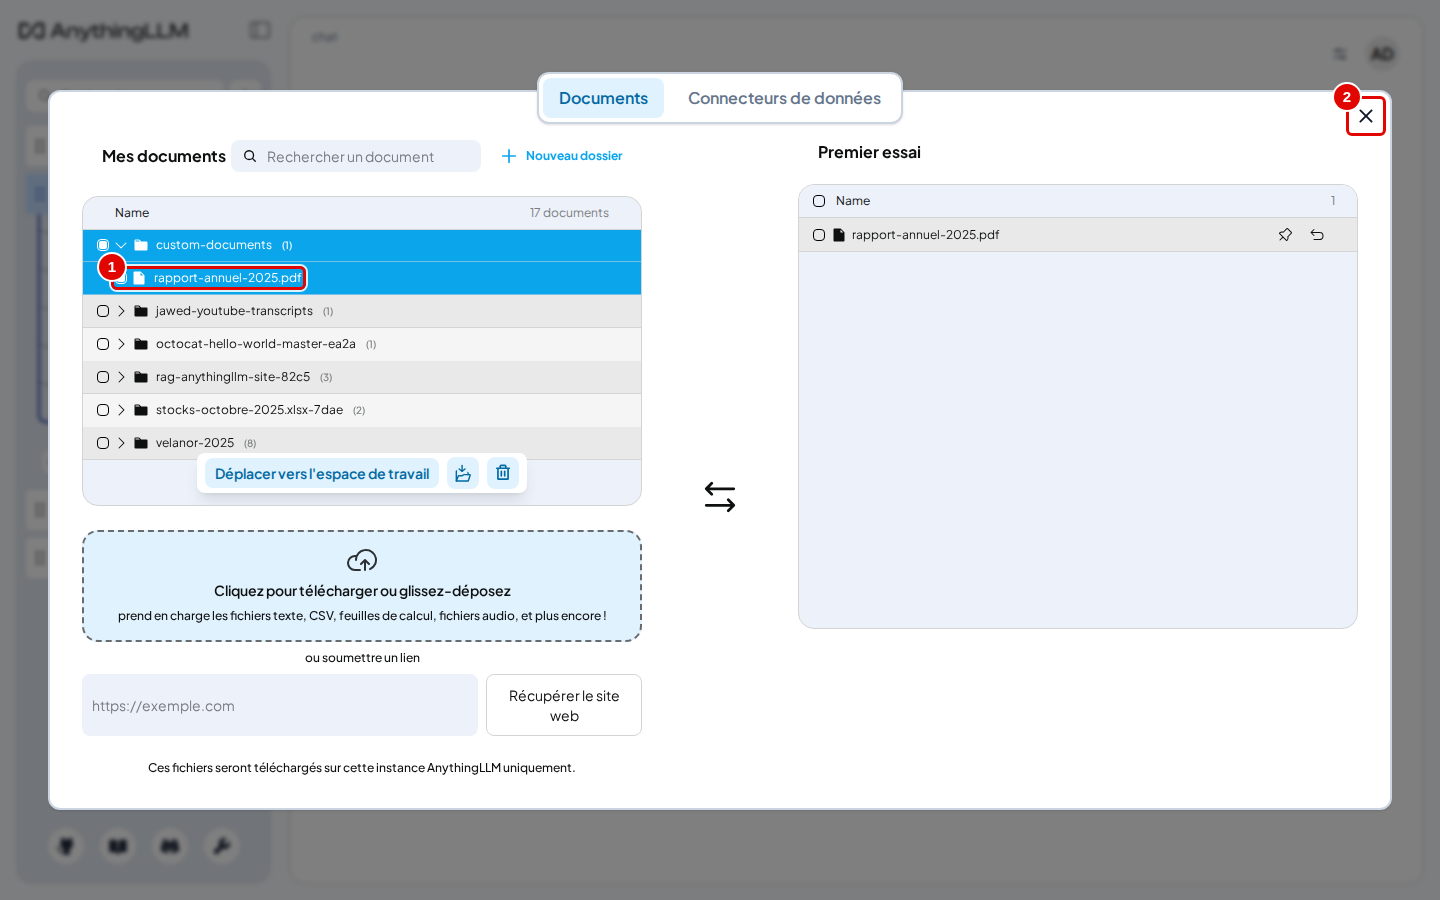
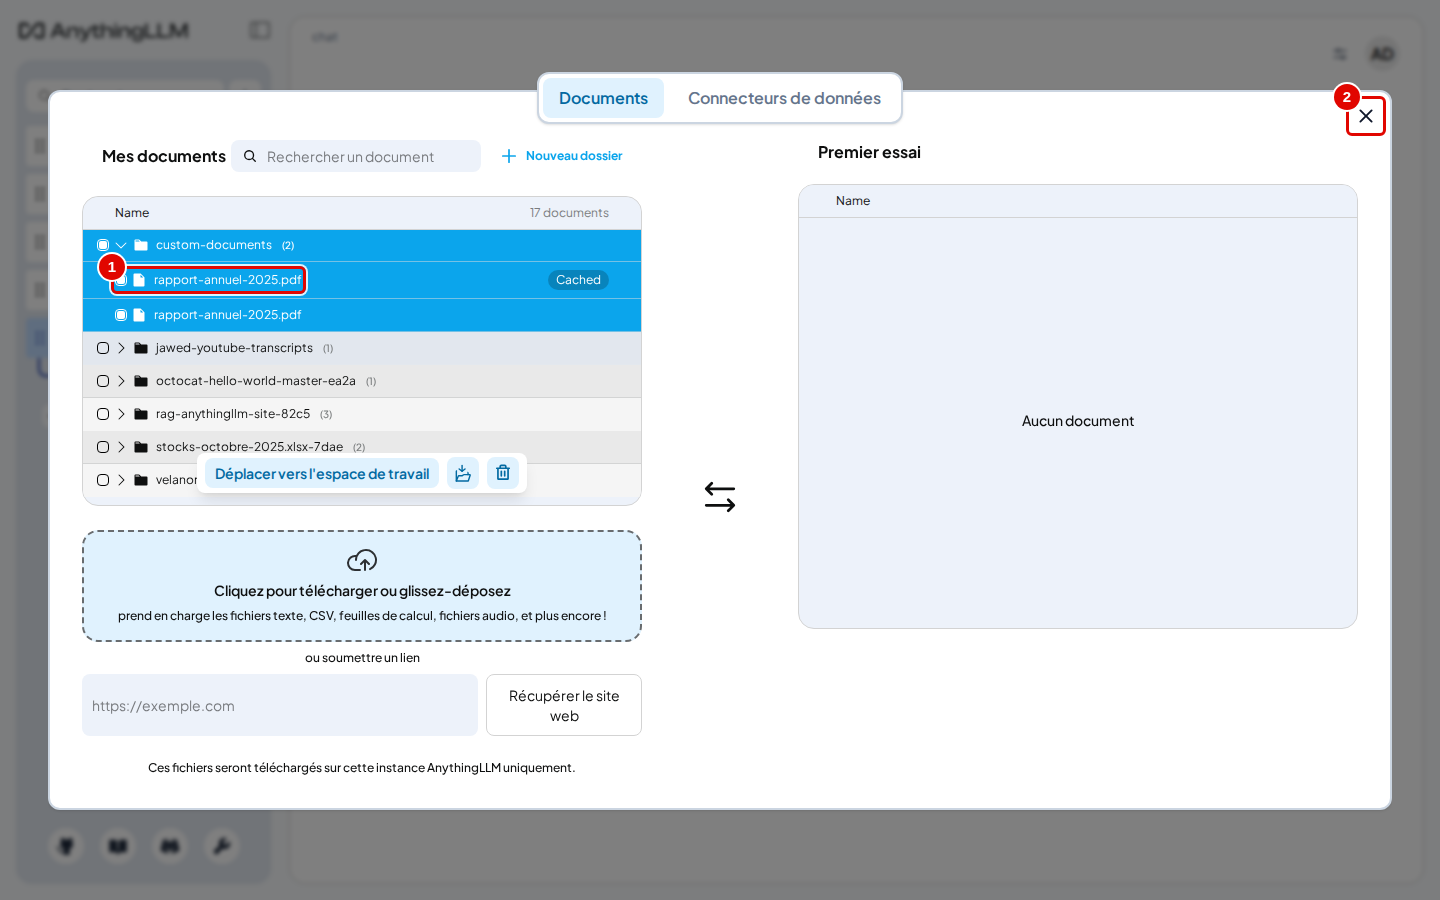
AnythingLLM : corrections de la quatrième relecture novice (captures 04 et 09 refaites)

diff --git a/outils/anythingllm/captures/reprises.py b/outils/anythingllm/captures/reprises.py
@@ -160,9 +160,32 @@ def widget_fichier(s):
         s.cap_souple("16-widget-reponse", [(bulle, "réponse dans la page")])
 
 
+def envoi_vierge(s):
+    """Chapitre 04, capture 05, dans un espace temporaire vierge nommé comme celui du chapitre (supprimé ensuite)."""
+    p = s.page; s.chapitre = "04-premiere-question"
+    s.gestionnaire("premier-essai-86397990")
+    p.locator("input[type=file]").first.set_input_files("/depot/corpus/documents/rapport-annuel-2025.pdf")
+    p.wait_for_timeout(5000); s.sans_toasts()
+    item = p.locator('[data-tooltip-id="directory-item"]').filter(has_text="rapport-annuel-2025").first
+    if not item.is_visible():
+        p.get_by_text("custom-documents").first.click(); p.wait_for_timeout(1000)
+    p.evaluate("() => { const b = document.elementFromPoint(1366, 126).closest('button'); b.setAttribute('data-manuel', 'croix'); }")
+    s.cap_souple("05-document-televerse", [(item, "rapport-annuel-2025.pdf"), (p.locator("[data-manuel=croix]"), "croix (fermer)")])
+
+
+def github_form(s):
+    p = s.page; s.chapitre = "09-sources-externes"
+    s.gestionnaire("sources-externes")
+    p.get_by_text("Connecteurs de données").first.click(); p.wait_for_timeout(1000)
+    p.get_by_text("Dépôt GitHub", exact=False).first.click(); p.wait_for_timeout(800)
+    repo = p.locator("[name=repo]"); repo.fill("https://github.com/octocat/Hello-World")
+    sub = repo.locator("xpath=ancestor::form[1]").locator("button[type=submit]")
+    s.cap_souple("03-github", [(repo, "URL du dépôt GitHub"), (sub, "Submit")])
+
+
 if __name__ == "__main__":
     s = Scenario("reprises")
     try:
-        etapes([agents, admin, experimental, widget, citation, ocr, envoi, croix_seule, citation2, ocr2, widget_fichier], s)
+        etapes([envoi_vierge, github_form, agents, admin, experimental, widget, citation, ocr, envoi, croix_seule, citation2, ocr2, widget_fichier], s)
     finally:
         s.fermer()

diff --git a/docs/anythingllm/manuel/13-comptes-equipe-et-widget.md b/docs/anythingllm/manuel/13-comptes-equipe-et-widget.md
@@ -4,7 +4,7 @@
 > **Point de départ** : Paramètres de l'instance › « Sécurité », connecté avec le mot de passe de l'instance (chapitre 03).
 > **Durée** : environ 20 minutes. **Avant** : chapitres 03 à 07 ; faire le chapitre 11 avant, car les tâches planifiées disparaissent en multi-utilisateur.
 
-**Attention** : le passage en multi-utilisateur ne peut pas être annulé depuis l'interface. Avant l'étape 1, faire une sauvegarde (terminal Ubuntu, dossier du dépôt : `outils/anythingllm/sauvegarder.sh`) : la restaurer est le seul moyen de revenir en arrière. Le mot de passe de l'instance est remplacé par des comptes ; les pages « Tâches planifiées », « Canaux » (Telegram) et « Sécurité » disparaissent du menu.
+**Attention** : le passage en multi-utilisateur ne peut pas être annulé depuis l'interface. Avant l'étape 1, faire une sauvegarde (terminal Ubuntu, dossier du dépôt : `outils/anythingllm/sauvegarder.sh`) : la restaurer est le seul moyen de revenir en arrière (`outils/anythingllm/restaurer.sh donnees/sauvegardes/<archive>.tar.gz`, après arrêt automatique de l'application ; l'archive est nommée d'après la date et l'heure). Le mot de passe de l'instance est remplacé par des comptes ; les pages « Tâches planifiées », « Canaux » (Telegram) et « Sécurité » disparaissent du menu.
 
 ## Ce qu'il faut savoir
 
@@ -188,7 +188,7 @@ Cliquer sur « Download » (pastille 1), puis sur « Close ».
 
 **Étape 12. Créer le widget**
 *Où* : connecté avec `admin-velanor`, Paramètres de l'instance › Outils › « Widgets de chat intégrés » › « Créer un widget intégré ».
-En haut de la fenêtre, choisir l'espace « Démo Vélanor » ; plus bas, cocher le mode « Query » (pastille 1), renseigner le domaine du site dans « Restrict requests from domains » (pastille 2 ; par exemple `intranet.velanor.fr` ; laissé vide dans l'essai, pour la page de test de l'étape 15), une limite par jour (pastille 3, ici 200), puis « Create embed » (pastille 4).
+En haut de la fenêtre, choisir l'espace « Démo Vélanor » ; plus bas, cocher le mode « Query » (pastille 1), laisser vide « Restrict requests from domains » (pastille 2) pour l'essai de l'étape 15, qui ouvre une page depuis un fichier et non depuis un site ; pour un vrai site, y mettre son nom de domaine (par exemple `intranet.velanor.fr`), une limite par jour (pastille 3, ici 200), puis « Create embed » (pastille 4).
 
 ![Nouveau widget](../img/13-comptes-et-widget/12-nouveau-widget.png)
 *Écran : fenêtre de création d'un widget.*
@@ -253,7 +253,7 @@ Cliquer sur la bulle en bas à droite (pastille 1), poser une question.
 
 - Pour revenir à une seule personne, il n'y a pas de bouton : il faudrait restaurer une sauvegarde faite avant le passage (annexe A4).
 - Un compte « Manager » peut modifier les espaces et leurs documents mais pas les modèles.
-- Un widget dont les domaines autorisés sont vides répond à n'importe quel site qui connaît son identifiant : renseigner le domaine du site.
+- Un widget dont les domaines autorisés sont vides répond à n'importe quel site qui connaît son identifiant : une fois l'essai fait, renseigner le domaine du vrai site (bouton d'édition du widget).
 
 ## En cas de problème
 

diff --git a/docs/anythingllm/manuel/04-premiere-question.md b/docs/anythingllm/manuel/04-premiere-question.md
@@ -72,17 +72,17 @@ La colonne de droite, au nom de l'espace (« Premier essai »), liste les docume
 
 **Étape 5. Envoyer le fichier**
 *Où* : fenêtre des documents, zone d'envoi.
-Cliquer dans la zone d'envoi : la fenêtre de choix de fichier de Windows s'ouvre. Le dépôt est dans WSL : taper `\\wsl$` dans la barre d'adresse de cette fenêtre, ouvrir la distribution (son nom, par exemple `Ubuntu` ou `Ubuntu-24.04`, est donné par `wsl -l` dans PowerShell), puis `home\<utilisateur>\AnythingLLM-Test-Bench\corpus\documents` (le chemin du dépôt s'affiche avec `pwd` dans le terminal Ubuntu), et choisir `rapport-annuel-2025.pdf` (ou le glisser depuis l'Explorateur dans la zone).
+Cliquer dans la zone d'envoi : la fenêtre de choix de fichier de Windows s'ouvre. Le dépôt est dans WSL : taper `\\wsl$` dans la barre d'adresse de cette fenêtre, ouvrir la distribution (son nom, par exemple `Ubuntu` ou `Ubuntu-24.04`, est donné par `wsl -l` dans PowerShell), puis le dossier du dépôt et `corpus\documents`. Le chemin du dépôt s'affiche avec `pwd` dans le terminal Ubuntu, par exemple `/home/camille/AnythingLLM-Test-Bench` : il devient `\\wsl$\Ubuntu\home\camille\AnythingLLM-Test-Bench` en remplaçant les `/` par des `\`. et choisir `rapport-annuel-2025.pdf` (ou le glisser depuis l'Explorateur dans la zone).
 
 ![Fichier envoyé](../img/04-premiere-question/05-document-televerse.png)
-*Écran : fenêtre des documents, fichier envoyé dans « custom-documents ».*
+*Écran : fenêtre des documents, fichier envoyé dans « custom-documents » (capture prise plus tard, sur une instance qui contient déjà les dossiers des chapitres suivants et un exemplaire du rapport marqué « Cached » ; la colonne de l'espace est vide, comme sur une installation neuve).*
 
 | N° | Élément | Rôle |
 |---|---|---|
 | 1 | `rapport-annuel-2025.pdf` | le fichier envoyé, rangé dans le dossier `custom-documents` |
 | 2 | croix | ferme la fenêtre |
 
-*Résultat* : le fichier apparaît dans « Mes documents », avec une coche verte dans la zone d'envoi. Il n'est **pas encore** dans l'espace. Fermer la fenêtre avec la croix (pastille 2), puis la rouvrir comme à l'étape 3 : dans la version 1.19.0, un fichier qu'on vient d'envoyer ne peut pas être placé dans l'espace tant que la fenêtre n'a pas été rouverte.
+*Résultat* : le fichier apparaît dans « Mes documents », dans le dossier `custom-documents`. La colonne de droite indique toujours « Aucun document » : il n'est **pas encore** dans l'espace. Fermer la fenêtre avec la croix (pastille 2), puis la rouvrir comme à l'étape 3 : dans la version 1.19.0, un fichier qu'on vient d'envoyer ne peut pas être placé dans l'espace tant que la fenêtre n'a pas été rouverte.
 
 **Étape 6. Placer le fichier dans l'espace**
 *Où* : fenêtre des documents rouverte, « Mes documents » › dossier `custom-documents`.

diff --git a/docs/anythingllm/manuel/11-memoires-taches-et-routage.md b/docs/anythingllm/manuel/11-memoires-taches-et-routage.md
@@ -70,7 +70,7 @@ Cliquer sur « Nouvelle offre d'emploi » (pastille 1) : c'est la traduction app
 
 **Étape 5. Décrire la tâche**
 *Où* : formulaire de nouvelle tâche.
-Remplir le nom `Point stocks du lundi` (pastille 1), le champ « Demande » (pastille 2) avec `Résume l'état des stocks de pièces à partir des documents de l'espace Démo Vélanor.`, choisir la fréquence (pastille 3 : « chaque minute », « par heure », « quotidien », « hebdomadaire », « mensuel » ; ici « hebdomadaire » conviendrait au nom, l'essai a gardé « quotidien »), puis cliquer sur « Créer un emploi » (pastille 4).
+Remplir le nom `Point stocks du lundi` (pastille 1), le champ « Demande » (pastille 2) avec une consigne, par exemple `Rédige un rappel des points à vérifier pour l'inventaire des pièces détachées.`, choisir la fréquence (pastille 3 : « chaque minute », « par heure », « quotidien », « hebdomadaire », « mensuel » ; ici « hebdomadaire » conviendrait au nom, l'essai a gardé « quotidien »), puis cliquer sur « Créer un emploi » (pastille 4).
 
 ![Nouvelle tâche](../img/11-memoires-taches-routage/05-nouvelle-tache.png)
 *Écran : formulaire de nouvelle tâche planifiée.*
@@ -82,7 +82,7 @@ Remplir le nom `Point stocks du lundi` (pastille 1), le champ « Demande » (pas
 | 3 | calendrier | fréquence d'exécution |
 | 4 | « Créer un emploi » | enregistre la tâche |
 
-*Résultat* : le message « Emploi créé » s'affiche. La tâche ne se rattache à aucun espace : la consigne est envoyée au modèle avec les compétences cochées dans « Outils (facultatifs) », sous la consigne. Pour qu'elle lise des documents, y cocher une compétence de recherche dans les documents si elle est proposée ; sans outil, le modèle répond sans lire les documents. Dans les essais, aucun outil n'a été coché et l'exécution n'a pas été observée : la tâche d'exemple montre le formulaire, pas un résultat.
+*Résultat* : le message « Emploi créé » s'affiche. La tâche ne se rattache à aucun espace : la consigne est envoyée au modèle avec les compétences cochées dans « Outils (facultatifs) », sous la consigne. Sans outil, le modèle répond avec ses seules connaissances, sans lire les documents : c'est le cas de l'exemple, qui montre le formulaire ; l'exécution n'a pas été observée pendant les essais.
 
 **Étape 6. Suivre la tâche**
 *Où* : « Tâches planifiées ».

diff --git a/docs/anythingllm/manuel/03-premiers-pas.md b/docs/anythingllm/manuel/03-premiers-pas.md
@@ -47,7 +47,7 @@ Taper `Generic` dans le champ de recherche (pastille 1), puis cliquer sur « Gen
 Remplir dans l'ordre :
 
 - « Base URL » (pastille 1) : `http://llm-central:8080/v1` ;
-- « API Key » (pastille 2) : la clé du service central (masquée sur la capture) ;
+- « API Key » (pastille 2) : la clé du service central (masquée sur la capture) ; pour l'afficher, dans le terminal Ubuntu, dossier du dépôt : `grep LLM_CENTRAL_KEY .env` (la partie après `=`) ;
 - « Selected Model » (pastille 3) : dès que l'adresse et la clé sont bonnes, le champ devient une liste des modèles du service ; choisir `chat` ;
 - « Model context window » (pastille 4) : `16384`, la taille de contexte du service ;
 - « Max Tokens » (pastille 5) : `8192`, longueur maximale d'une réponse, réflexion comprise.
@@ -137,7 +137,7 @@ Cliquer sur « Ignorer l'enquête » (pastille 1), sans rien remplir.
 |---|---|---|
 | 1 | liste des espaces de travail | chaque espace a ses documents, ses conversations (fils) et ses réglages ; « New Thread » ouvre une nouvelle conversation |
 | 2 | « + » | crée un espace de travail (chapitre 04) |
-| 3 | flèche vers le haut | ouvre le fenêtre des documents de l'espace (chapitre 05) |
+| 3 | flèche vers le haut | ouvre la fenêtre des documents de l'espace (chapitre 05) |
 | 4 | « Envoyer un message » | zone où taper une question |
 | 5 | « Outils » | commandes abrégées (`/reset`…) et compétences de l'agent (chapitres 06 et 10) |
 | 6 | clé | ouvre les paramètres de l'instance |
@@ -165,7 +165,7 @@ Taper le mot de passe de l'instance (pastille 1), puis cliquer sur « Connexion 
 ## Régler la langue
 
 **Étape 10. Choisir le français**
-*Où* : clé en bas de la barre latérale › « Paramètres de l'instance » › Apparence › « Interface ».
+*Où* : clé en bas de la barre latérale › « Paramètres de l'instance » › Apparence › « Interface » (avec un navigateur en anglais : « Instance Settings » › « Appearance » › « Interface », champ « Display Language »). L'interface suit la langue du navigateur : avec un navigateur en anglais, les étapes 1 à 9 s'affichent en anglais (« Get started » pour « Commencer »).
 Dans « Langue d'affichage » (pastille 2), choisir « French ».
 
 ![Réglage de la langue](../img/03-premiers-pas/10-langue.png)

diff --git a/docs/anythingllm/manuel/15-en-cas-de-probleme.md b/docs/anythingllm/manuel/15-en-cas-de-probleme.md
@@ -111,7 +111,7 @@ La première dit si AnythingLLM tourne, la deuxième montre ses derniers message
 | 1 | titre du document ; les erreurs sont dans le texte en dessous | texte lu par OCR : « (I'Acheteur) » pour « (l'Acheteur) », « Bréme » pour « Brême », « aprés » pour « après », « ler mars » pour « 1er mars » |
 
 *Cause* : la lecture optique (OCR) est réglée en anglais par défaut ; les accents et certaines lettres françaises sont mal reconnus. Les chiffres du contrat ont été bien lus dans les essais.
-*Que faire* : ce réglage n'existe pas dans l'interface. Depuis le dossier du dépôt, écrire la ligne `TARGET_OCR_LANG=fra,eng` dans le fichier `donnees/anythingllm/options.env`, puis relancer `outils/anythingllm/demarrer.sh` (le conteneur est recréé avec ce réglage). Supprimer ensuite le document scanné et l'envoyer de nouveau : la lecture donne alors « Brême » et « l'Acheteur ». Écrire la même ligne dans `donnees/anythingllm/storage/.env` ne suffit pas : l'outil de lecture ne la voit pas.
+*Que faire* : ce réglage n'existe pas dans l'interface. Depuis le dossier du dépôt, créer le fichier `donnees/anythingllm/options.env` (il n'existe pas par défaut) avec la commande `echo 'TARGET_OCR_LANG=fra,eng' > donnees/anythingllm/options.env`, puis lancer `outils/anythingllm/demarrer.sh` sans arrêter l'application avant : le conteneur est recréé avec ce réglage. Supprimer ensuite le document scanné et l'envoyer de nouveau : la lecture donne alors « Brême » et « l'Acheteur ». Écrire la même ligne dans `donnees/anythingllm/storage/.env` ne suffit pas : l'outil de lecture ne la voit pas.
 
 ## Message trop long
 

diff --git a/docs/anythingllm/manuel/08-choisir-les-modeles-et-la-lecture-des-documents.md b/docs/anythingllm/manuel/08-choisir-les-modeles-et-la-lecture-des-documents.md
@@ -53,7 +53,7 @@ Sur ces pages, le bouton d'enregistrement (« Enregistrer les modifications » o
 
 | N° | Élément | Rôle |
 |---|---|---|
-| 1 | « Taille des segments de texte » | longueur maximale d'un passage, en caractères ; ne peut pas dépasser la limite déclarée pour l'embedding (1 000 ici, rappelée sous le champ) |
+| 1 | « Taille des segments de texte » | longueur maximale d'un passage, en caractères ; ne peut pas dépasser la limite déclarée pour l'embedding (1 000 ici, réglée au chapitre 03, étape 14) |
 | 2 | « Chevauchement des segments de texte » | nombre de caractères repris d'un passage au suivant (20 par défaut) |
 
 *Résultat* : un changement ne vaut que pour les documents intégrés ensuite. Pour des passages plus longs, relever d'abord « Max embedding chunk length » dans « Préférences d'intégration » (chapitre 03, étape 14).

diff --git a/docs/anythingllm/manuel/06-poser-des-questions-et-lire-les-sources.md b/docs/anythingllm/manuel/06-poser-des-questions-et-lire-les-sources.md
@@ -34,7 +34,7 @@ Taper `Combien de vélos Vélanor a-t-elle produits en 2025, et dans quelle usin
 | 1 | « Thought for … » | réflexion du modèle, repliée, avec sa durée |
 | 2 | « Sources » | documents utilisés pour la réponse |
 
-*Résultat* : la réponse arrive en quelques secondes : « Vélanor a produit 61 800 vélos en 2025 », avec la répartition par site. Sous la réponse, une ligne indique le modèle, la durée et la vitesse (par exemple « chat · 6.4s »).
+*Résultat* : la réponse arrive en quelques secondes : « Vélanor a produit 61 800 vélos en 2025 », avec la répartition par site. Au survol de la réponse, une ligne indique le modèle, la durée et la vitesse (par exemple « chat · 6.4s »).
 
 **Étape 2. Lire la réflexion**
 *Où* : au-dessus de la réponse.

diff --git a/docs/anythingllm/manuel/14-cas-pratiques.md b/docs/anythingllm/manuel/14-cas-pratiques.md
@@ -6,6 +6,8 @@
 
 ## Ce qu'il faut savoir
 
+Dans chaque cas, ouvrir un nouveau fil (« New Thread »), poser la question, puis renommer le fil comme indiqué (chapitre 06, étapes 8 et 9).
+
 Les trois cas utilisent les documents fictifs de l'entreprise Vélanor : une FAQ (page HTML), un contrat scanné (PDF image), un audit fournisseur en anglais (PDF), un message vocal (MP3), un rapport annuel, une procédure, un classeur de stocks. Chaque conversation est ouverte dans un **nouveau fil**, renommé d'après son sujet (chapitre 06, étapes 8 et 9) : les trois fils forment le jeu de démonstration laissé dans l'instance.
 
 ## Cas 1. Mettre en place une foire aux questions interne

diff --git a/docs/anythingllm/manuel/07-regler-un-espace-de-travail.md b/docs/anythingllm/manuel/07-regler-un-espace-de-travail.md
@@ -96,7 +96,9 @@ Pour l'espace « Démo Vélanor », choisir « Accuracy Optimized » dans « Sea
 | 1 | « Fournisseur LLM de l'agent de l'espace de travail » | modèle utilisé par l'agent de cet espace ; « System Default » reprend celui de l'instance |
 | 2 | « Configure Agent Skills » | ouvre la liste des compétences de l'agent (chapitre 10) |
 
-*Résultat* : l'agent de l'espace utilise le modèle choisi.
+Pour ce manuel, laisser « System Default » : l'agent utilise alors `chat`, comme le reste de l'instance.
+
+*Résultat* : un autre choix ne change que le modèle de l'agent de cet espace.
 
 ## Bon à savoir
 

diff --git a/docs/anythingllm/manuel/10-agents-et-outils.md b/docs/anythingllm/manuel/10-agents-et-outils.md
@@ -86,7 +86,7 @@ Remplir « Flow Name » avec `ConsignesBatteries` (pastille 1) et « Description
 
 Les serveurs MCP se déclarent dans le fichier `anythingllm_mcp_servers.json` du dossier de données (`donnees/anythingllm/storage/plugins/`) ; l'interface les affiche et permet de les activer.
 
-**Étape 5a. Déclarer le serveur d'exemple**
+**Avant l'étape 5. Déclarer le serveur d'exemple**
 *Où* : terminal Ubuntu, dossier du dépôt. Le script copie le serveur d'exemple et le déclare :
 
 ```bash
